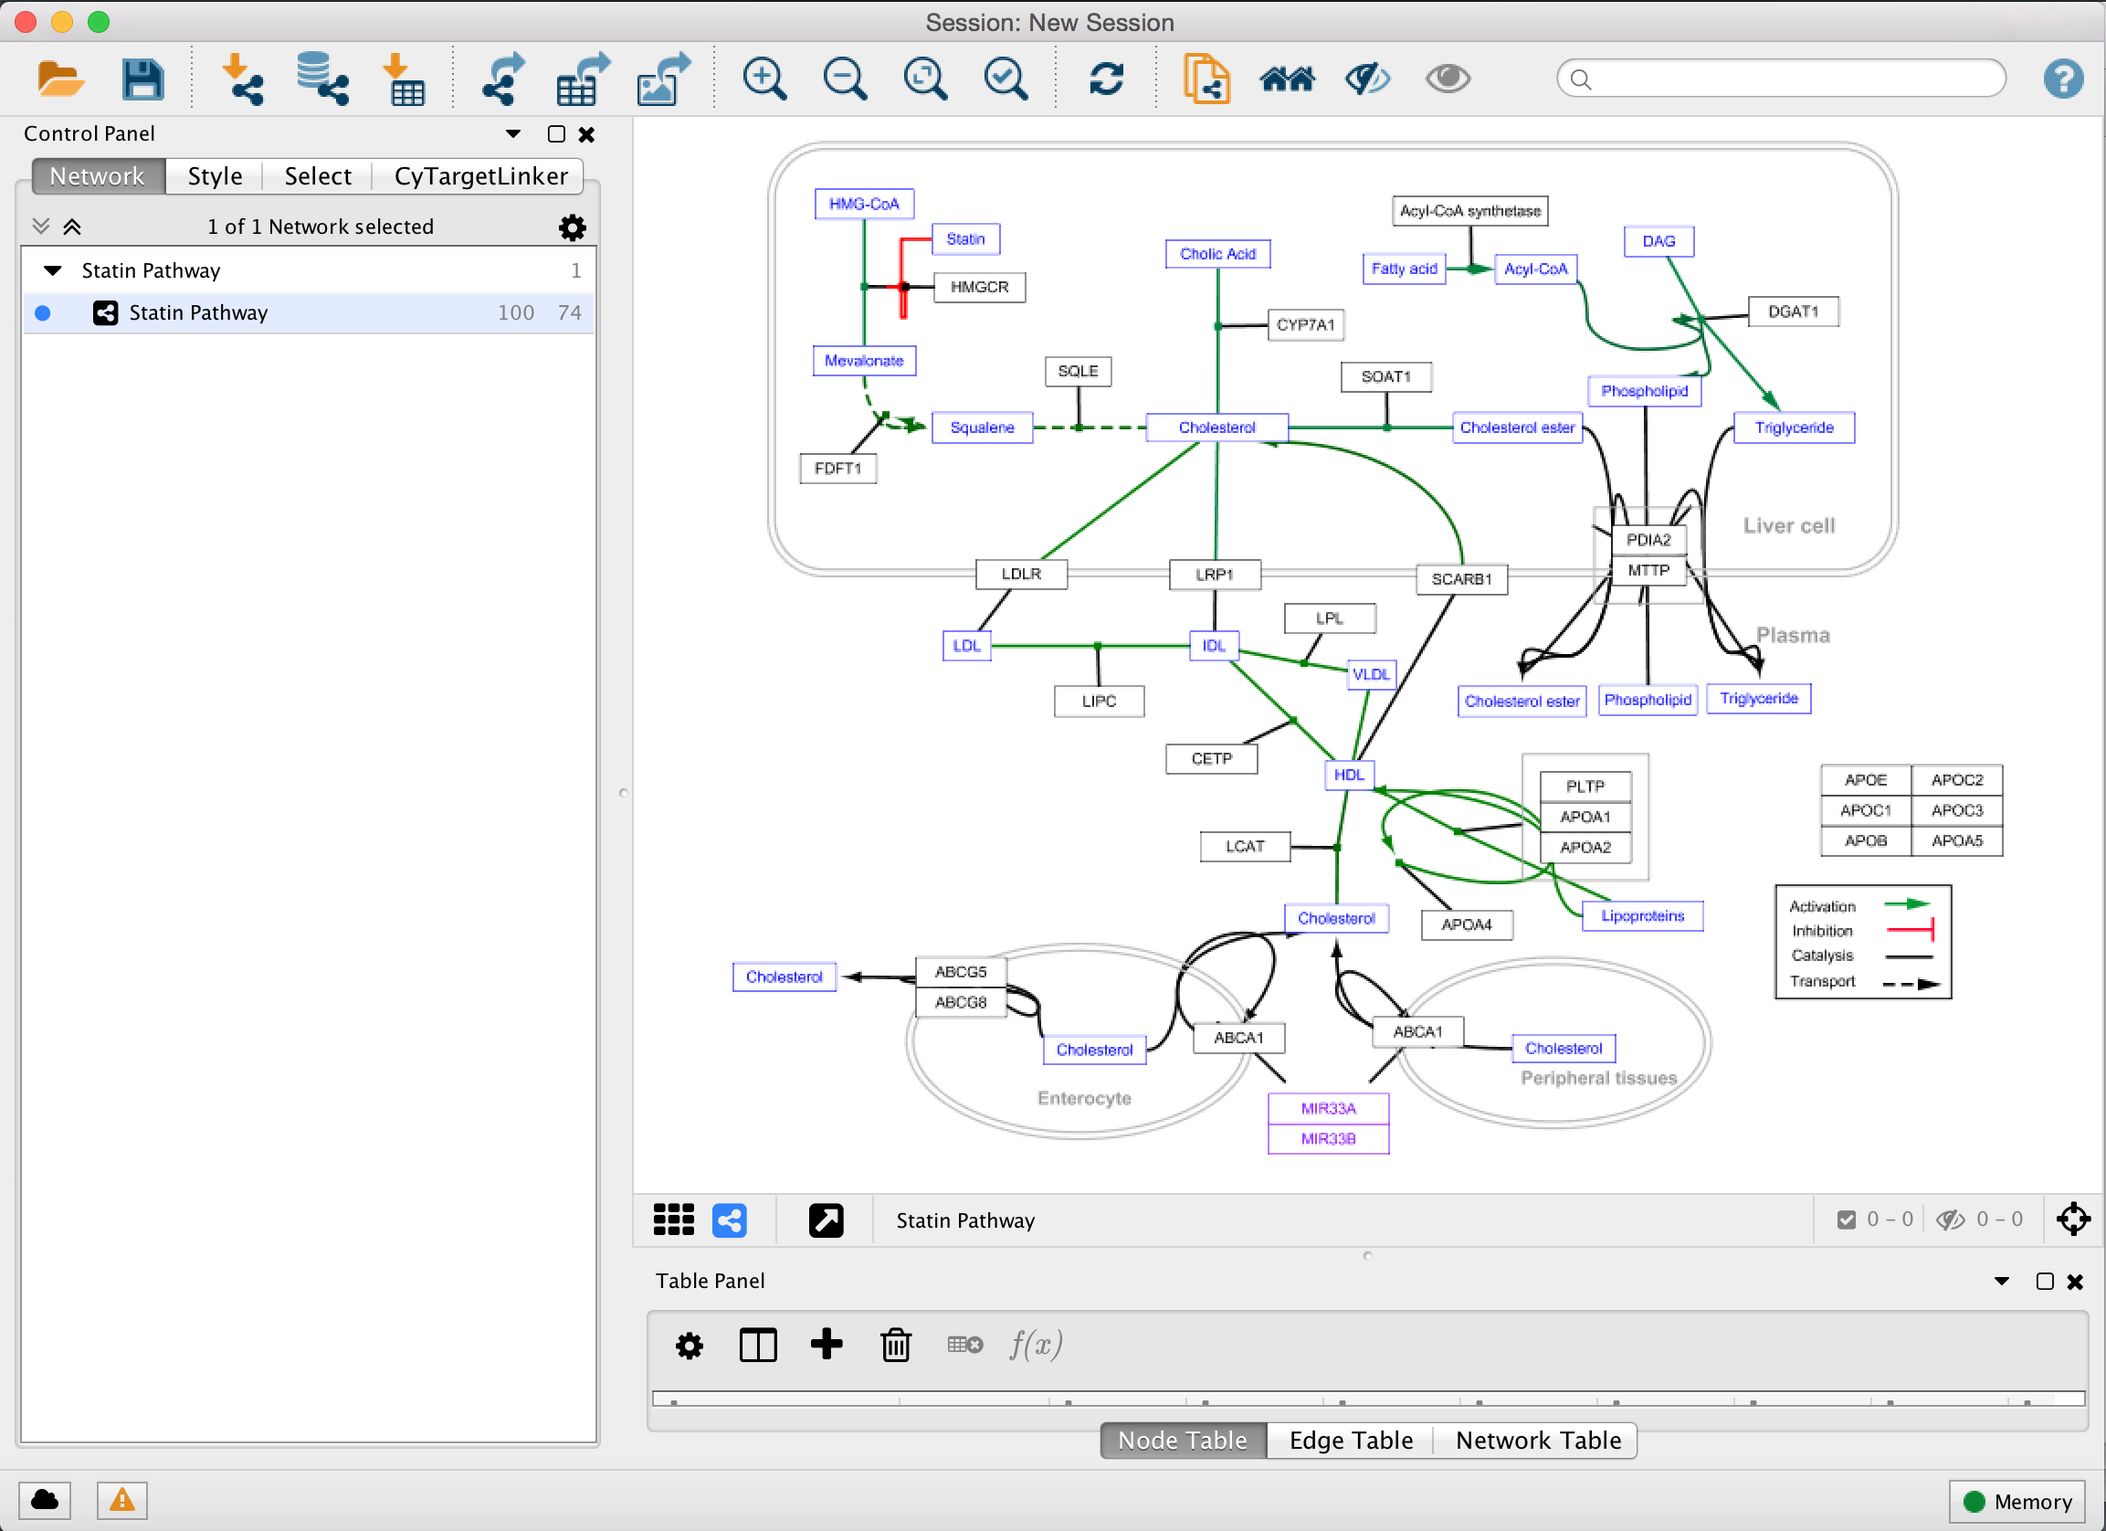
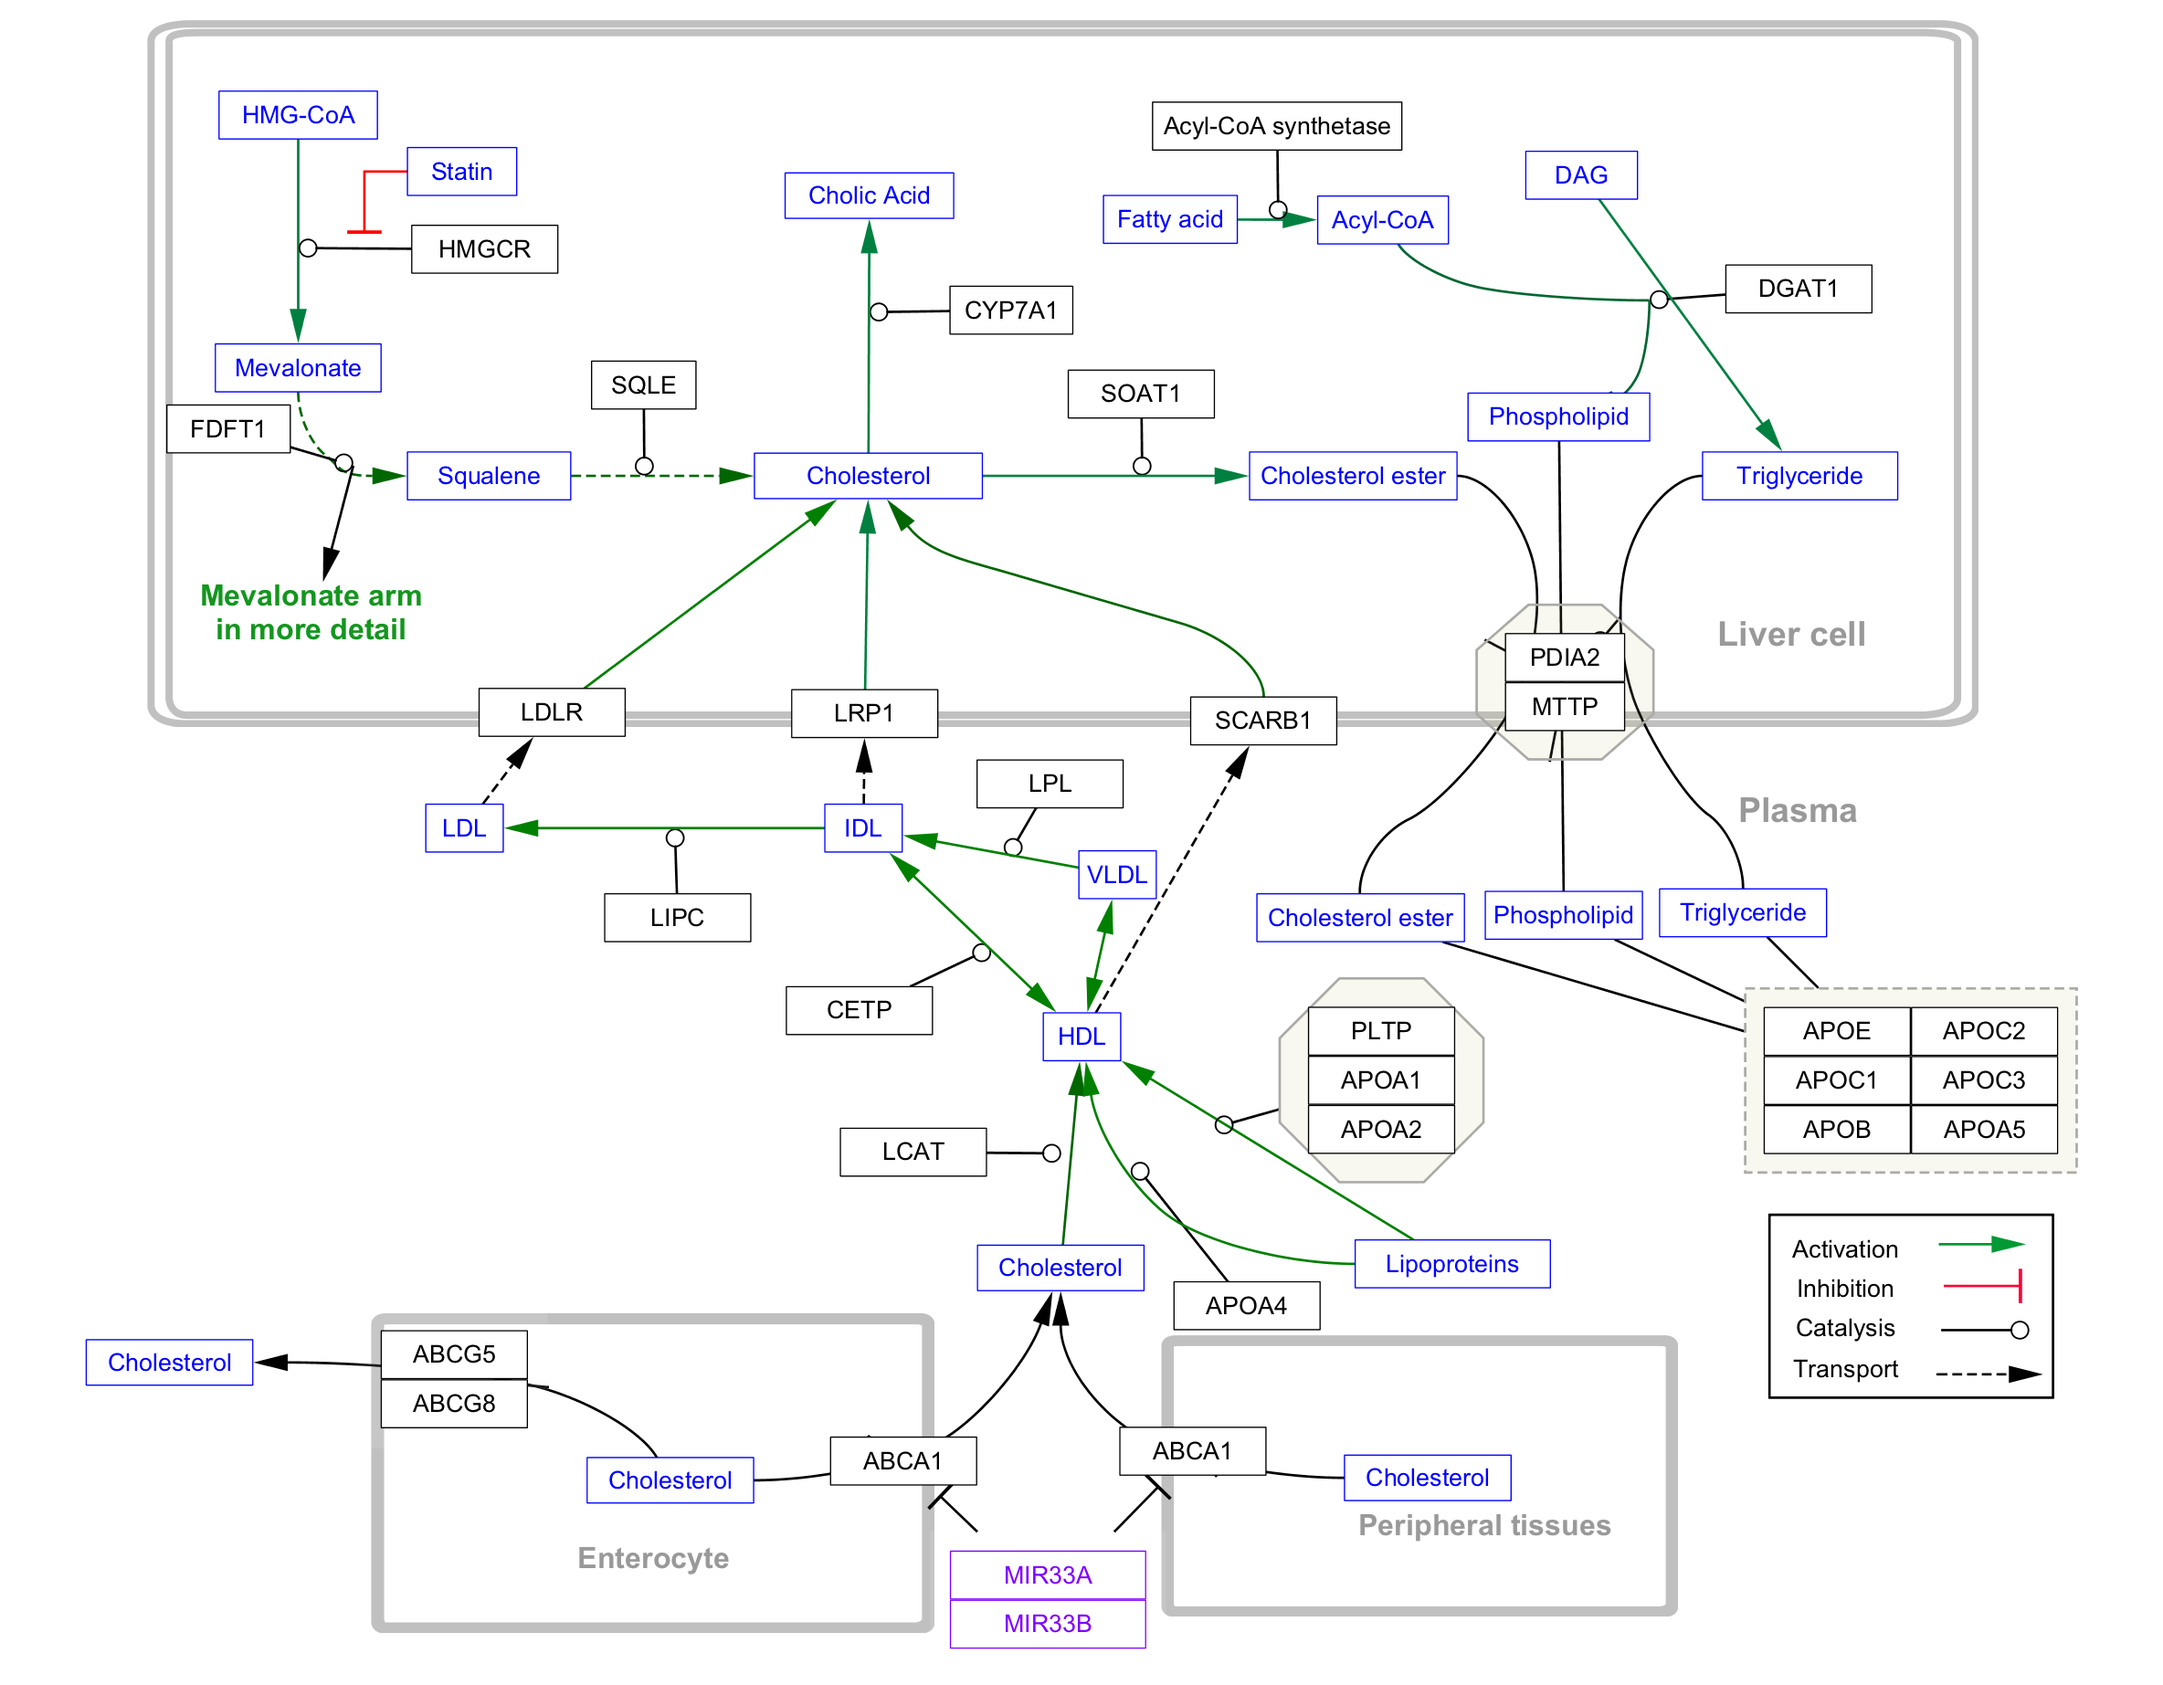
adding wp slide

diff --git a/presentations/modules/finding-network-data/module.html b/presentations/modules/finding-network-data/module.html
@@ -266,6 +266,11 @@
 <img style="width:80%;" src="modules/finding-network-data/WikiPathwaysApp-pathway.png">
 
 </section>
+<section>
+    <h3>WikiPathways Results</h3>
+<img style="width:80%;" src="modules/finding-network-data/WikiPathwaysApp-network.png">
+
+</section>
 
 <section>
     <h3>Try it!</h3>
